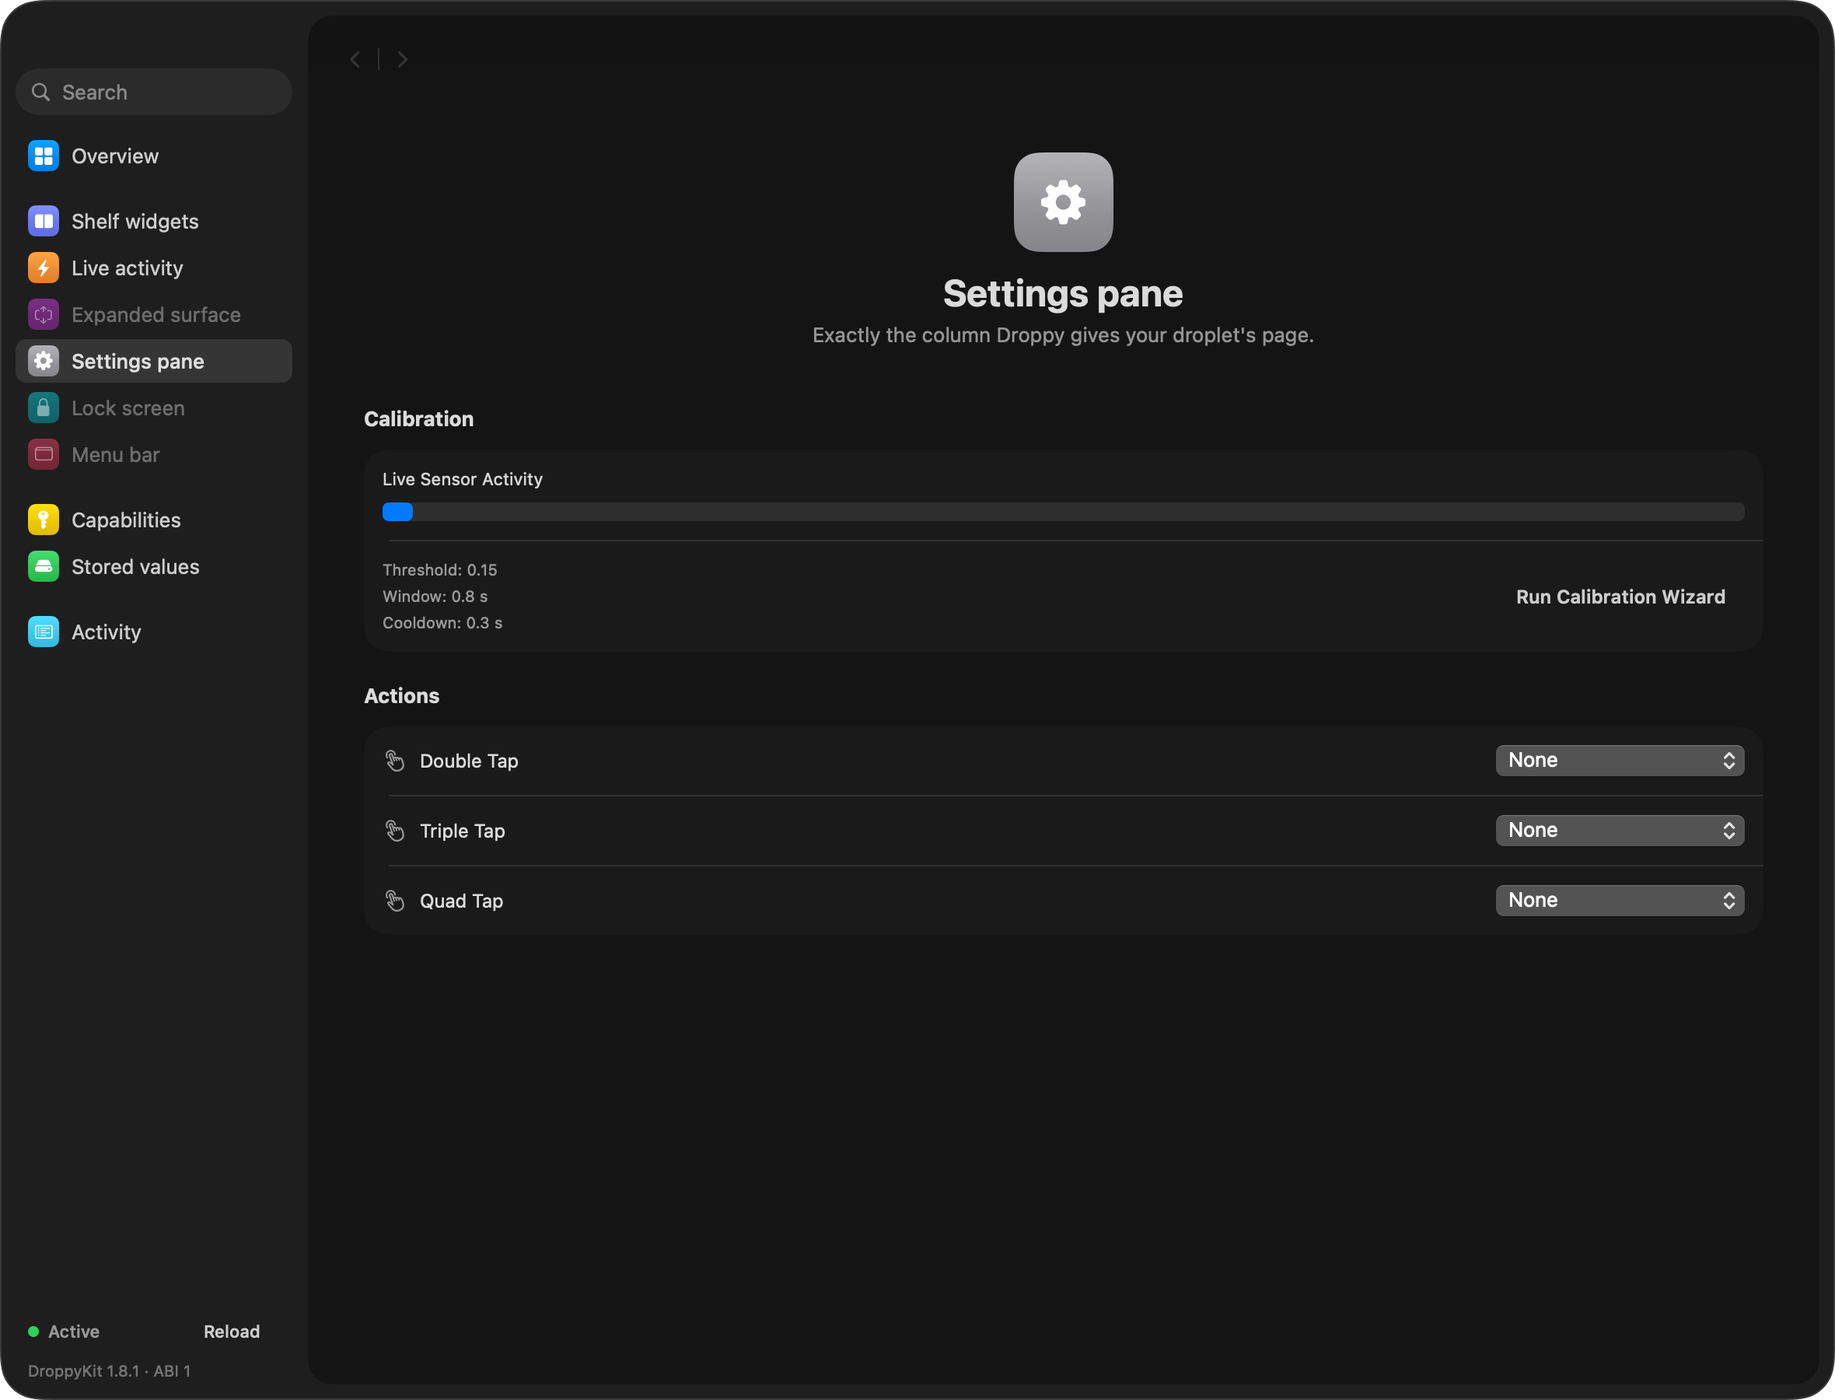
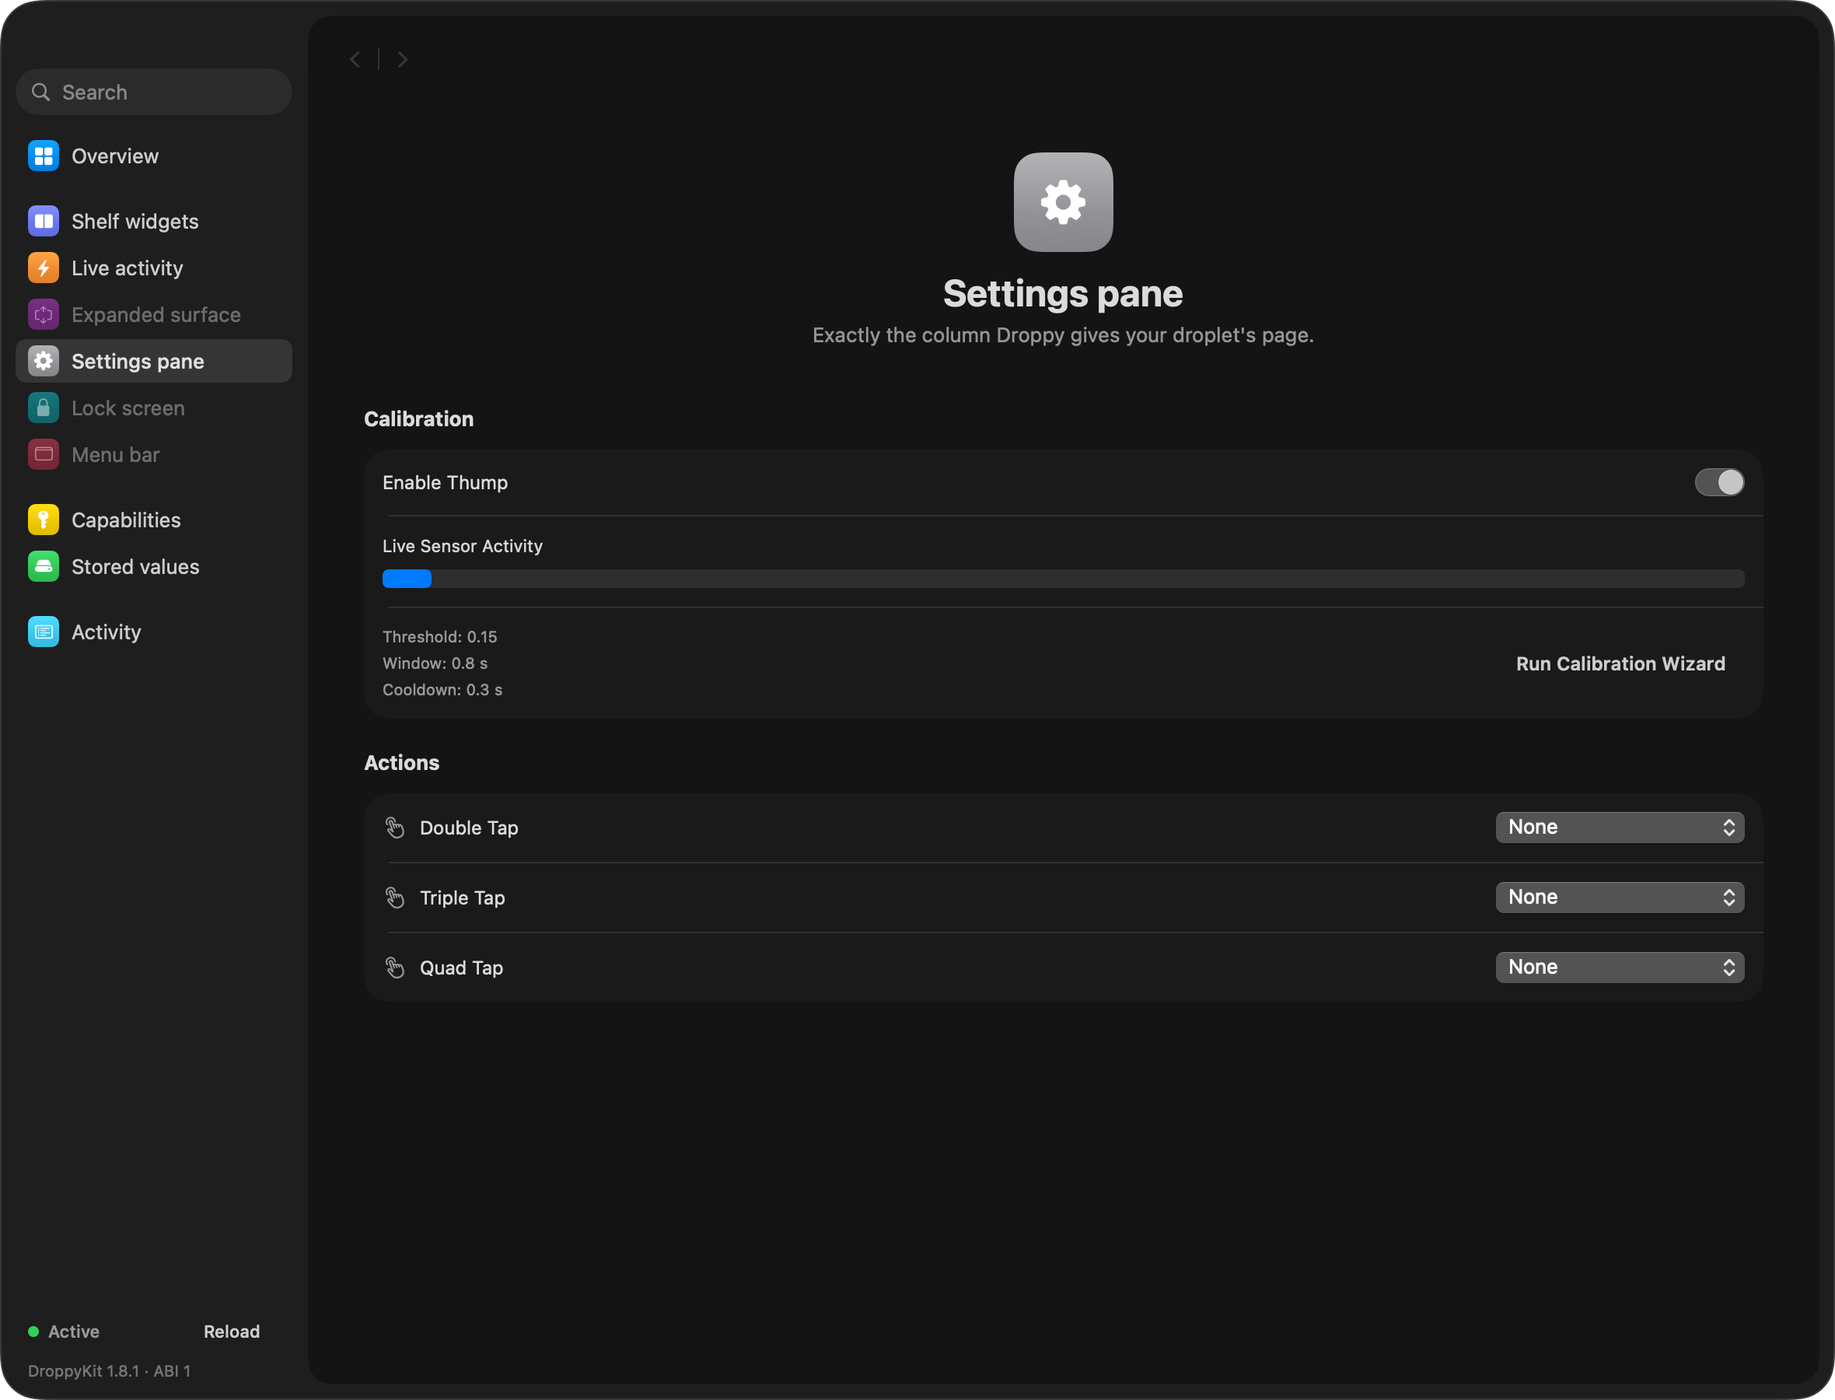
feat: add listening state handling to droplet and migrate storage to host preferences

diff --git a/Sources/Thump/ThumpSettingsPane.swift b/Sources/Thump/ThumpSettingsPane.swift
@@ -21,54 +21,64 @@ struct ThumpSettingsPane: View {
                     .foregroundStyle(AdaptiveColors.primaryTextAuto)
                     
                 DropletSettingsCard {
-                    VStack(alignment: .leading, spacing: DroppySpacing.sm) {
-                        Text("Live Sensor Activity")
-                            .font(.subheadline)
-                            .foregroundStyle(AdaptiveColors.notchSurfaceSecondaryText)
-                        
-                        if let detector = droplet.detector {
-                            LiveSensorView(detector: detector)
-                        } else {
-                            Text("Sensor inactive")
+                    DropletToggleRow(title: "Enable Thump", isOn: Binding(
+                        get: { droplet.isListening },
+                        set: { if $0 { droplet.detector?.start() } else { droplet.detector?.stop() } }
+                    ))
+                    
+                    if droplet.isListening {
+                        DropletSettingsDivider()
+                        VStack(alignment: .leading, spacing: DroppySpacing.sm) {
+                            Text("Live Sensor Activity")
+                                .font(.subheadline)
                                 .foregroundStyle(AdaptiveColors.notchSurfaceSecondaryText)
+                            
+                            if let detector = droplet.detector {
+                                LiveSensorView(detector: detector)
+                            } else {
+                                Text("Sensor inactive")
+                                    .foregroundStyle(AdaptiveColors.notchSurfaceSecondaryText)
+                            }
                         }
-                    }
-                    .padding(DroppySpacing.md)
-                    
-                    DropletSettingsDivider()
-                    
-                    HStack {
-                        VStack(alignment: .leading, spacing: 4) {
-                            Text("Threshold: \(String(format: "%.2f", accelThreshold))")
-                            Text("Window: \(String(format: "%.1f s", groupingWindow))")
-                            Text("Cooldown: \(String(format: "%.1f s", cooldown))")
-                        }
-                        .font(.footnote)
-                        .foregroundStyle(AdaptiveColors.secondaryTextAuto)
+                        .padding(DroppySpacing.md)
                         
-                        Spacer()
+                        DropletSettingsDivider()
                         
-                        Button("Run Calibration Wizard") {
-                            showingWizard = true
+                        HStack {
+                            VStack(alignment: .leading, spacing: 4) {
+                                Text("Threshold: \(String(format: "%.2f", accelThreshold))")
+                                Text("Window: \(String(format: "%.1f s", groupingWindow))")
+                                Text("Cooldown: \(String(format: "%.1f s", cooldown))")
+                            }
+                            .font(.footnote)
+                            .foregroundStyle(AdaptiveColors.secondaryTextAuto)
+                            
+                            Spacer()
+                            
+                            Button("Run Calibration Wizard") {
+                                showingWizard = true
+                            }
+                            .buttonStyle(DroppyQuietButtonStyle(size: .small))
                         }
-                        .buttonStyle(DroppyQuietButtonStyle(size: .small))
+                        .padding(DroppySpacing.md)
                     }
-                    .padding(DroppySpacing.md)
                 }
             }
             
-            VStack(alignment: .leading, spacing: DroppySpacing.md) {
-                Text("Actions")
-                    .font(.headline)
-                    .foregroundStyle(AdaptiveColors.primaryTextAuto)
-                    
-                DropletSettingsCard {
-                    if let host = droplet.host {
-                        ActionConfigRow(host: host, taps: 2, title: "Double Tap")
-                        DropletSettingsDivider()
-                        ActionConfigRow(host: host, taps: 3, title: "Triple Tap")
-                        DropletSettingsDivider()
-                        ActionConfigRow(host: host, taps: 4, title: "Quad Tap")
+            if droplet.isListening {
+                VStack(alignment: .leading, spacing: DroppySpacing.md) {
+                    Text("Actions")
+                        .font(.headline)
+                        .foregroundStyle(AdaptiveColors.primaryTextAuto)
+                        
+                    DropletSettingsCard {
+                        if let host = droplet.host {
+                            ActionConfigRow(host: host, taps: 2, title: "Double Tap")
+                            DropletSettingsDivider()
+                            ActionConfigRow(host: host, taps: 3, title: "Triple Tap")
+                            DropletSettingsDivider()
+                            ActionConfigRow(host: host, taps: 4, title: "Quad Tap")
+                        }
                     }
                 }
             }
@@ -86,24 +96,13 @@ private struct ActionConfigRow: View {
     let taps: Int
     let title: String
     
-    @AppStorage var actionType: String
-    @AppStorage var actionPayload: String
-    
-    init(host: DropletHost, taps: Int, title: String) {
-        self.host = host
-        self.taps = taps
-        self.title = title
-        self._actionType = AppStorage(wrappedValue: ThumpActionType.none.rawValue, "thump.actionType.\(taps)")
-        self._actionPayload = AppStorage(wrappedValue: "", "thump.actionPayload.\(taps)")
-    }
-    
     var body: some View {
         VStack(spacing: 0) {
             DropletControlRow(title: title, icon: "hand.tap") {
                 Picker("Action Type", selection: Binding(
-                    get: { actionType },
+                    get: { host.preferences.value(forKey: "thump.actionType.\(taps)", default: ThumpActionType.none.rawValue) },
                     set: { new in
-                        actionType = new
+                        host.preferences.setValue(new, forKey: "thump.actionType.\(taps)")
                         requestPermission(for: new)
                     }
                 )) {
@@ -115,17 +114,24 @@ private struct ActionConfigRow: View {
                 .frame(width: 160)
             }
             
+            let actionType = host.preferences.value(forKey: "thump.actionType.\(taps)", default: ThumpActionType.none.rawValue)
             if actionType == ThumpActionType.appleScript.rawValue || actionType == ThumpActionType.shellCommand.rawValue {
                 DropletSettingsDivider()
                 DropletControlRow(title: "Command / Script") {
-                    TextField("Enter script...", text: $actionPayload, axis: .vertical)
+                    TextField("Enter script...", text: Binding(
+                        get: { host.preferences.value(forKey: "thump.actionPayload.\(taps)", default: "") },
+                        set: { host.preferences.setValue($0, forKey: "thump.actionPayload.\(taps)") }
+                    ), axis: .vertical)
                         .textFieldStyle(.roundedBorder)
                         .lineLimit(1...5)
                 }
             } else if actionType == ThumpActionType.runShortcut.rawValue {
                 DropletSettingsDivider()
                 DropletControlRow(title: "Shortcut Name") {
-                    TextField("Enter name...", text: $actionPayload)
+                    TextField("Enter name...", text: Binding(
+                        get: { host.preferences.value(forKey: "thump.actionPayload.\(taps)", default: "") },
+                        set: { host.preferences.setValue($0, forKey: "thump.actionPayload.\(taps)") }
+                    ))
                         .textFieldStyle(.roundedBorder)
                 }
             }

diff --git a/Sources/Thump/ThumpDroplet.swift b/Sources/Thump/ThumpDroplet.swift
@@ -25,6 +25,8 @@ public final class ThumpDroplet: NSObject, ObservableObject, Droplet {
     // Live Activity publisher
     @Published private var liveActivitySubject: LiveActivityState? = nil
     
+    @Published public var isListening: Bool = false
+    
     public func activate(host: DropletHost) throws {
         self.host = host
         host.log.info("Thump activated")
@@ -35,6 +37,9 @@ public final class ThumpDroplet: NSObject, ObservableObject, Droplet {
         let detector = ThumpDetector(host: host, actionRunner: runner)
         detector.onThumpDetected = { [weak self] actionName in
             self?.showLiveActivity(for: actionName)
+        }
+        detector.onStateChange = { [weak self] listening in
+            self?.isListening = listening
         }
         self.detector = detector
         
@@ -50,7 +55,7 @@ public final class ThumpDroplet: NSObject, ObservableObject, Droplet {
 
     /// What the widget's control does. Replace it with the real action.
     public func refresh() {
-        if detector?.isListening == true {
+        if isListening {
             detector?.stop()
         } else {
             detector?.start()
@@ -79,7 +84,7 @@ extension ThumpDroplet: ShelfWidgetProviding {
                 layoutTraits: ShelfWidgetLayoutTraits(
                     preferredSoloWidth: 380,
                     preferredPairedWidth: 190,
-                    contentHeight: .fixed(52)
+                    contentHeight: .fixed(58)
                 )
             )
         ]
@@ -97,7 +102,7 @@ private struct ThumpWidget: View {
     let context: ShelfWidgetContext
 
     var body: some View {
-        VStack {
+        VStack(alignment: .leading, spacing: DroppySpacing.sm) {
             HStack(spacing: DroppySpacing.xsm) {
                 Image(systemName: "hand.tap.fill")
                     .font(.system(size: 12, weight: .medium))
@@ -106,34 +111,35 @@ private struct ThumpWidget: View {
                 
                 Spacer(minLength: 0)
                 
-                if let isListening = droplet.detector?.isListening {
-                    Text(isListening ? "Listening" : "Stopped")
+                if droplet.isListening {
+                    Text("Listening")
                         .font(.system(size: 12, weight: .semibold))
-                        .foregroundStyle(isListening ? AdaptiveColors.notchSurfacePrimaryText : AdaptiveColors.notchSurfaceSecondaryText)
+                        .foregroundStyle(AdaptiveColors.notchSurfacePrimaryText)
+                } else {
+                    Text("Stopped")
+                        .font(.system(size: 12, weight: .semibold))
+                        .foregroundStyle(AdaptiveColors.notchSurfaceSecondaryText)
                 }
                 
                 if !context.isCompact {
                     Button {
                         droplet.refresh()
                     } label: {
-                        Image(systemName: droplet.detector?.isListening == true ? "stop.fill" : "play.fill")
+                        Image(systemName: droplet.isListening ? "stop.fill" : "play.fill")
                     }
                     .buttonStyle(DroppyCircleButtonStyle(size: 20))
-                    .help(droplet.detector?.isListening == true ? "Stop" : "Start")
+                    .help(droplet.isListening ? "Stop" : "Start")
                 }
             }
             .foregroundStyle(AdaptiveColors.notchSurfaceSecondaryText)
 
             if !context.isCompact {
-                HStack {
-                    Text("Sensor: Accelerometer")
-                        .font(.system(size: 14, weight: .regular, design: .rounded))
-                        .foregroundStyle(AdaptiveColors.notchSurfaceSecondaryText)
-                    Spacer(minLength: 0)
-                }
+                Text("Sensor: Accelerometer")
+                    .font(.system(size: 14, weight: .regular, design: .rounded))
+                    .foregroundStyle(AdaptiveColors.notchSurfaceSecondaryText)
             }
-            Spacer(minLength: 0)
         }
+        .padding(.top, 6)
         .frame(maxWidth: .infinity, maxHeight: .infinity, alignment: .topLeading)
         .padding(context.contentInsets)
     }

diff --git a/Sources/Thump/ThumpDetector.swift b/Sources/Thump/ThumpDetector.swift
@@ -6,7 +6,7 @@ import IOKit.hid
 
 @MainActor
 public final class ThumpDetector: ObservableObject {
-    private let host: DropletHost
+    public let host: DropletHost
     private let actionRunner: ThumpActionRunner
     
     // Status
@@ -15,6 +15,7 @@ public final class ThumpDetector: ObservableObject {
     
     private var isStarted = false
     public var onThumpDetected: ((String) -> Void)?
+    public var onStateChange: ((Bool) -> Void)?
     
     // Detection Objects
     private let accelService = ThumpAccelerometerService()
@@ -40,17 +41,20 @@ public final class ThumpDetector: ObservableObject {
             host.log.info("ThumpDetector: Started using Accelerometer.")
             isUsingAccelerometer = true
             isListening = true
+            onStateChange?(true)
             return
         }
         
         host.log.error("ThumpDetector: Failed to start Accelerometer.")
         isStarted = false
         isListening = false
+        onStateChange?(false)
     }
     
     public func stop() {
         isStarted = false
         isListening = false
+        onStateChange?(false)
         accelService.stop()
     }
     
@@ -76,12 +80,15 @@ public final class ThumpDetector: ObservableObject {
         accelService.onSample = { [weak self] sample in
             guard let self = self else { return }
             
-            // Read settings from UserDefaults or use defaults
-            // We increase default threshold to 0.15 to prevent false positives
-            let userThreshold = UserDefaults.standard.double(forKey: "thump.accelThreshold") > 0 ? UserDefaults.standard.double(forKey: "thump.accelThreshold") : 0.15
-            let threshold = self.overrideThreshold ?? userThreshold
-            let groupingWindow = UserDefaults.standard.double(forKey: "thump.groupingWindow") > 0 ? UserDefaults.standard.double(forKey: "thump.groupingWindow") : 0.8
-            let cooldown = UserDefaults.standard.double(forKey: "thump.cooldown") > 0 ? UserDefaults.standard.double(forKey: "thump.cooldown") : 0.3
+            // Read settings from host.preferences
+            let userThreshold = self.host.preferences.value(forKey: "thump.accelThreshold", default: 0.15)
+            let threshold = self.overrideThreshold ?? (userThreshold > 0 ? userThreshold : 0.15)
+            
+            let userWindow = self.host.preferences.value(forKey: "thump.groupingWindow", default: 0.8)
+            let groupingWindow = userWindow > 0 ? userWindow : 0.8
+            
+            let userCooldown = self.host.preferences.value(forKey: "thump.cooldown", default: 0.3)
+            let cooldown = userCooldown > 0 ? userCooldown : 0.3
             
             if let pattern = self.knockDetector.process(
                 sample: SIMD3<Double>(sample.x, sample.y, sample.z),

diff --git a/Sources/Thump/ThumpActionRunner.swift b/Sources/Thump/ThumpActionRunner.swift
@@ -22,8 +22,8 @@ public final class ThumpActionRunner {
     }
     
     public func executeAction(forTaps taps: Int) -> String? {
-        let typeRaw = UserDefaults.standard.string(forKey: "thump.actionType.\(taps)") ?? ThumpActionType.none.rawValue
-        let payload = UserDefaults.standard.string(forKey: "thump.actionPayload.\(taps)") ?? ""
+        let typeRaw = host.preferences.value(forKey: "thump.actionType.\(taps)", default: ThumpActionType.none.rawValue)
+        let payload = host.preferences.value(forKey: "thump.actionPayload.\(taps)", default: "")
         
         guard let type = ThumpActionType(rawValue: typeRaw), type != .none else { return nil }
         
@@ -40,9 +40,7 @@ public final class ThumpActionRunner {
             runShellCommand("shortcuts run \"\(payload)\"")
         case .screenshot:
             // Interactive mode (-i) might block the process. Use silent capture to clipboard (-c) or file.
-            // Let's use interactive mode but ensure it's detached from the shell by using `open` or running asynchronously.
-            // Wait, actually, `screencapture -i` works best if run in a detached process.
-            runShellCommand("screencapture -i &")
+            runShellCommand("screencapture -i > /dev/null 2>&1 &")
         case .playPause:
             // Universal play/pause media key
             runAppleScript("tell application \"System Events\" to key code 100")
@@ -68,15 +66,11 @@ public final class ThumpActionRunner {
     
     private func runShellCommand(_ command: String) {
         guard !command.isEmpty else { return }
-        Task {
-            let process = Process()
-            process.executableURL = URL(fileURLWithPath: "/bin/sh")
-            process.arguments = ["-c", command]
-            do {
-                try process.run()
-            } catch {
-                host.log.error("Shell command error: \(error.localizedDescription)")
-            }
-        }
+        // Escape quotes and backslashes for AppleScript string literal
+        let escapedCommand = command
+            .replacingOccurrences(of: "\\", with: "\\\\")
+            .replacingOccurrences(of: "\"", with: "\\\"")
+        let script = "do shell script \"\(escapedCommand)\""
+        runAppleScript(script)
     }
 }

diff --git a/Sources/Thump/ThumpCalibrationWizard.swift b/Sources/Thump/ThumpCalibrationWizard.swift
@@ -299,9 +299,9 @@ struct ThumpCalibrationWizard: View {
     
     private func saveConfiguration() {
         let computed = collector.computeSettings()
-        UserDefaults.standard.set(computed.threshold, forKey: "thump.accelThreshold")
-        UserDefaults.standard.set(computed.groupingWindow, forKey: "thump.groupingWindow")
-        UserDefaults.standard.set(computed.cooldown, forKey: "thump.cooldown")
+        detector.host.preferences.setValue(computed.threshold, forKey: "thump.accelThreshold")
+        detector.host.preferences.setValue(computed.groupingWindow, forKey: "thump.groupingWindow")
+        detector.host.preferences.setValue(computed.cooldown, forKey: "thump.cooldown")
     }
     
     private func cleanupAndDismiss() {
